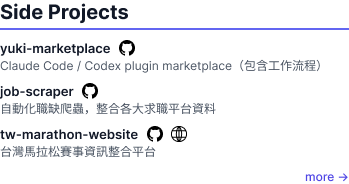
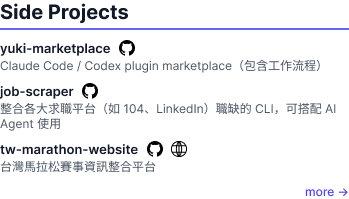
docs: update job-scraper description to include CLI and AI Agent context

diff --git a/openspec/changes/update-resume-skills-add-side-projects/design.md b/openspec/changes/update-resume-skills-add-side-projects/design.md
@@ -46,9 +46,9 @@ sideProjects: [
   {
     name: 'job-scraper',
     description: {
-      'zh-TW': '自動化職缺爬蟲，整合各大求職平台資料',
-      en: 'Automated job scraper integrating multiple job platform data',
-      ja: '複数の求人プラットフォームを統合した自動職缺スクレイパー',
+      'zh-TW': '整合各大求職平台（如 104、LinkedIn）職缺的 CLI，可搭配 AI Agent 使用',
+      en: 'CLI integrating job listings from major platforms (e.g. 104, LinkedIn), compatible with AI Agent workflows',
+      ja: '104やLinkedInなど主要求人プラットフォームの求人を統合するCLI、AI Agentと連携可能',
     },
     github: 'https://github.com/BIBIOTA/job-scraper',
     url: null,
